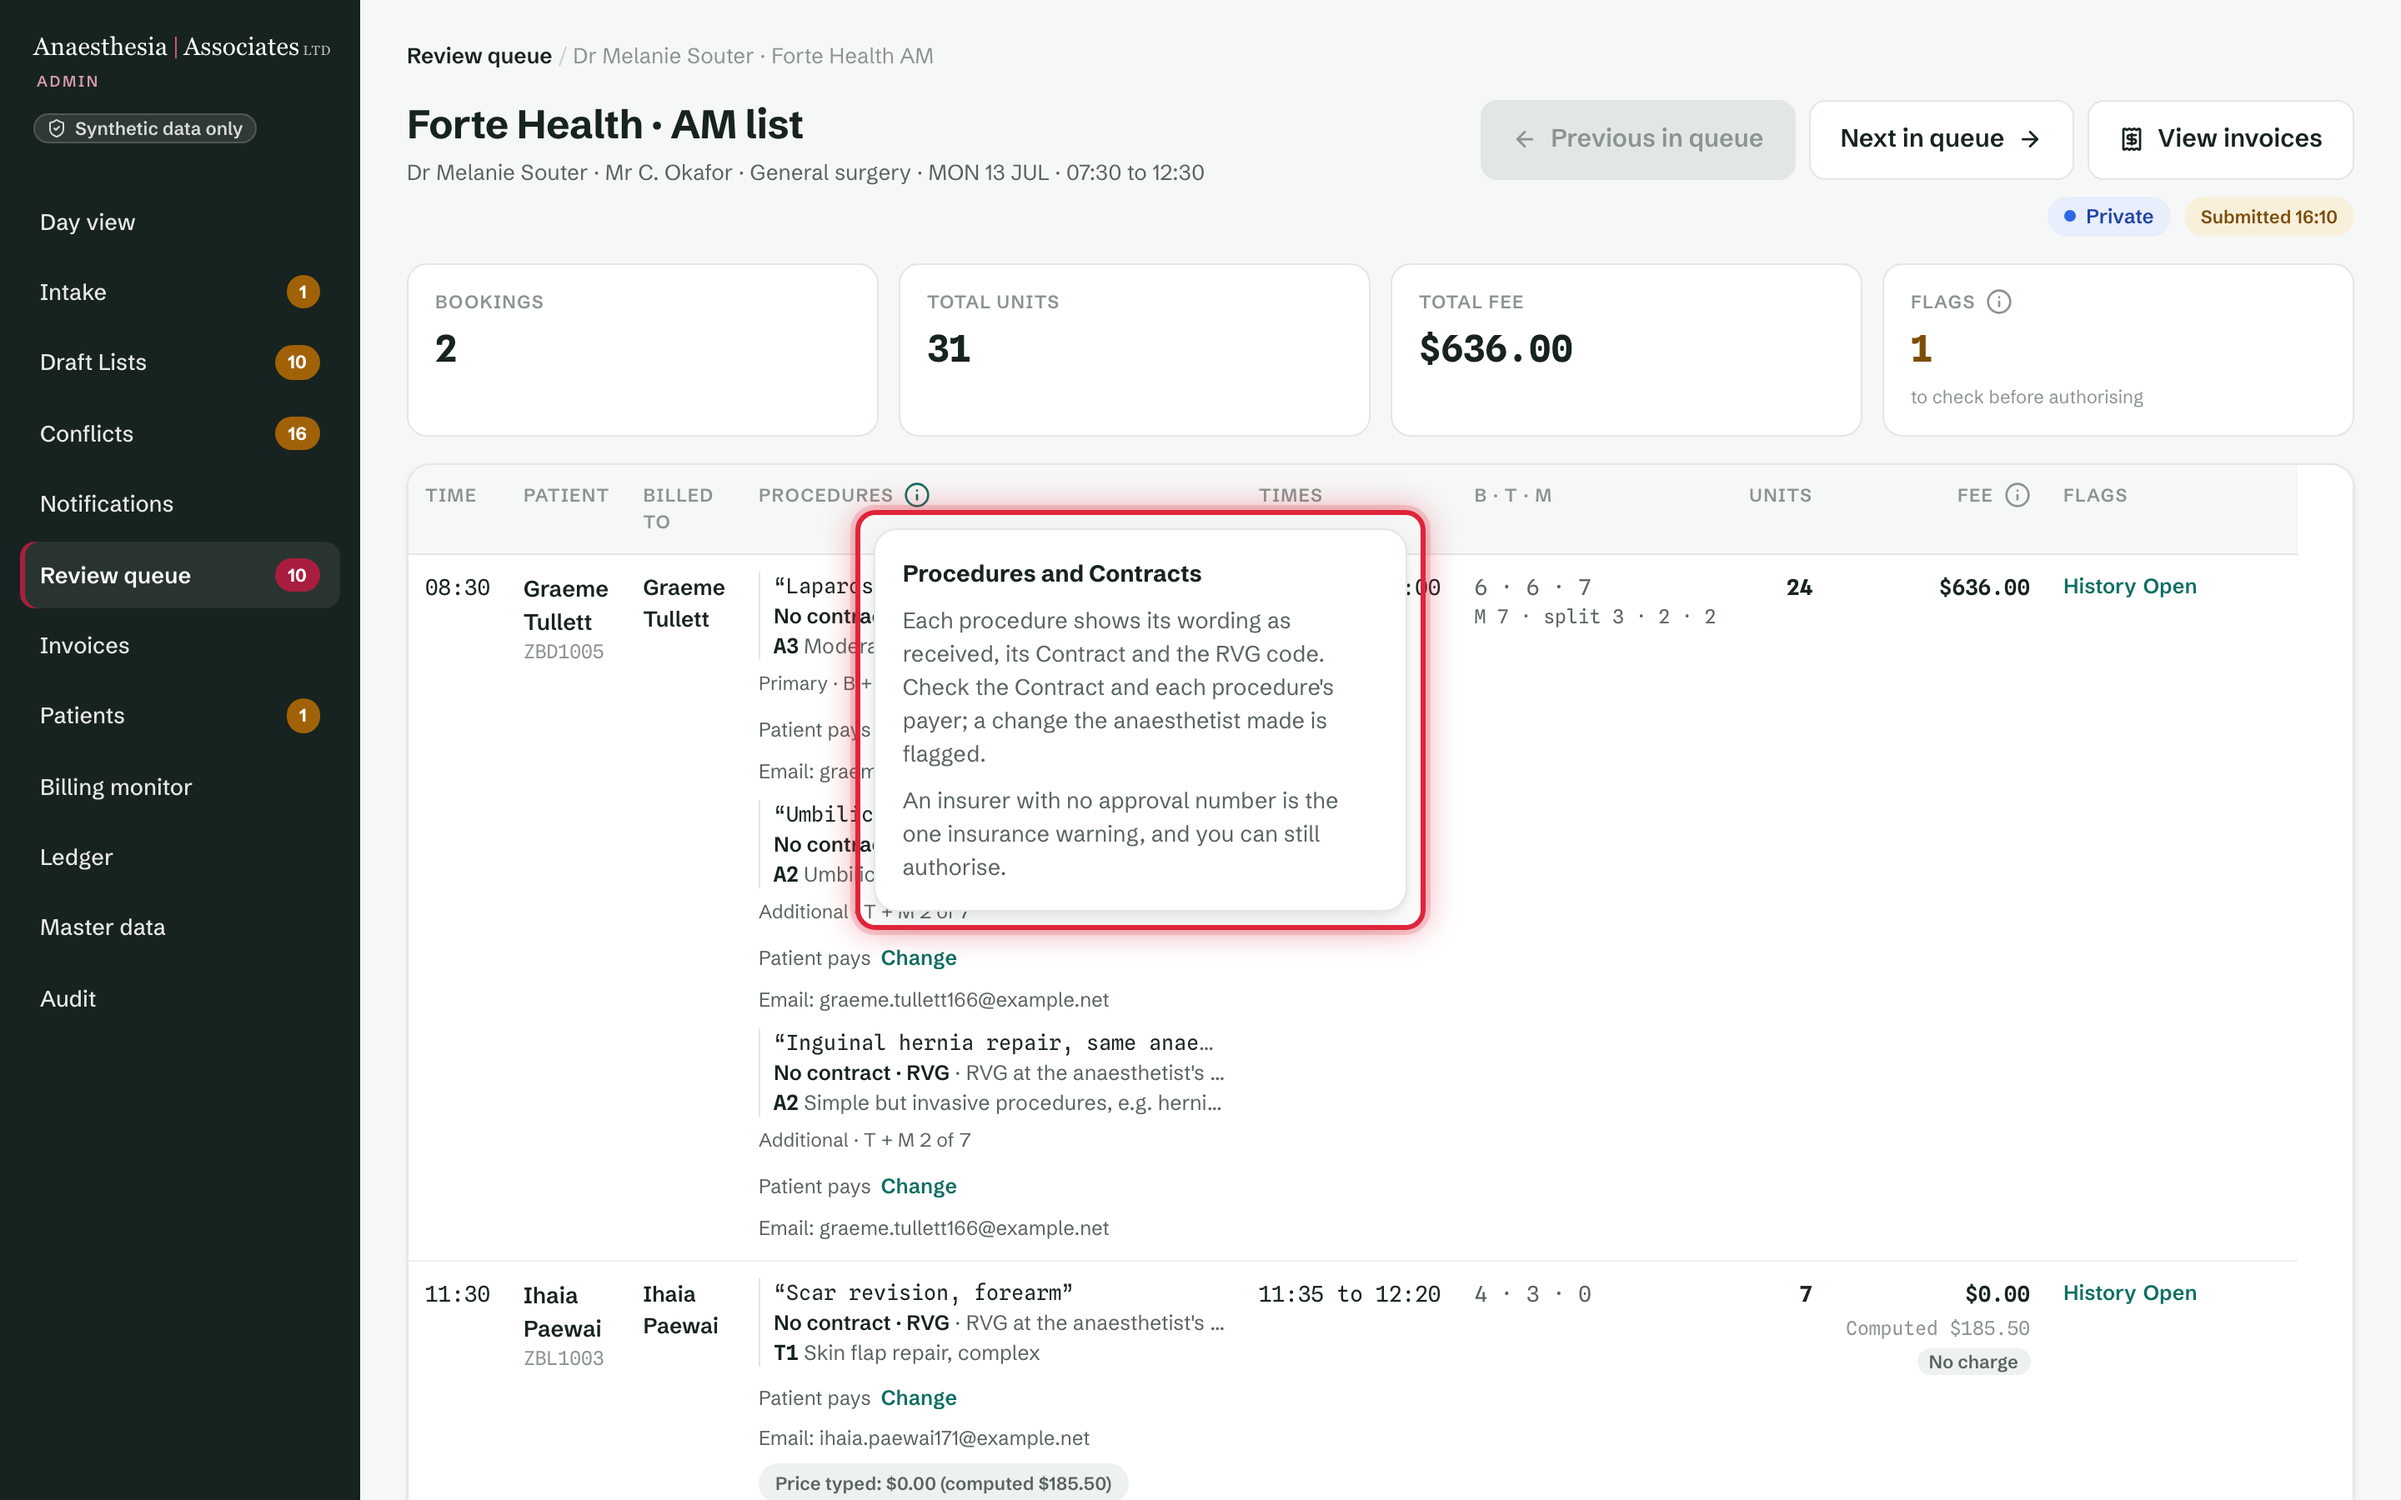
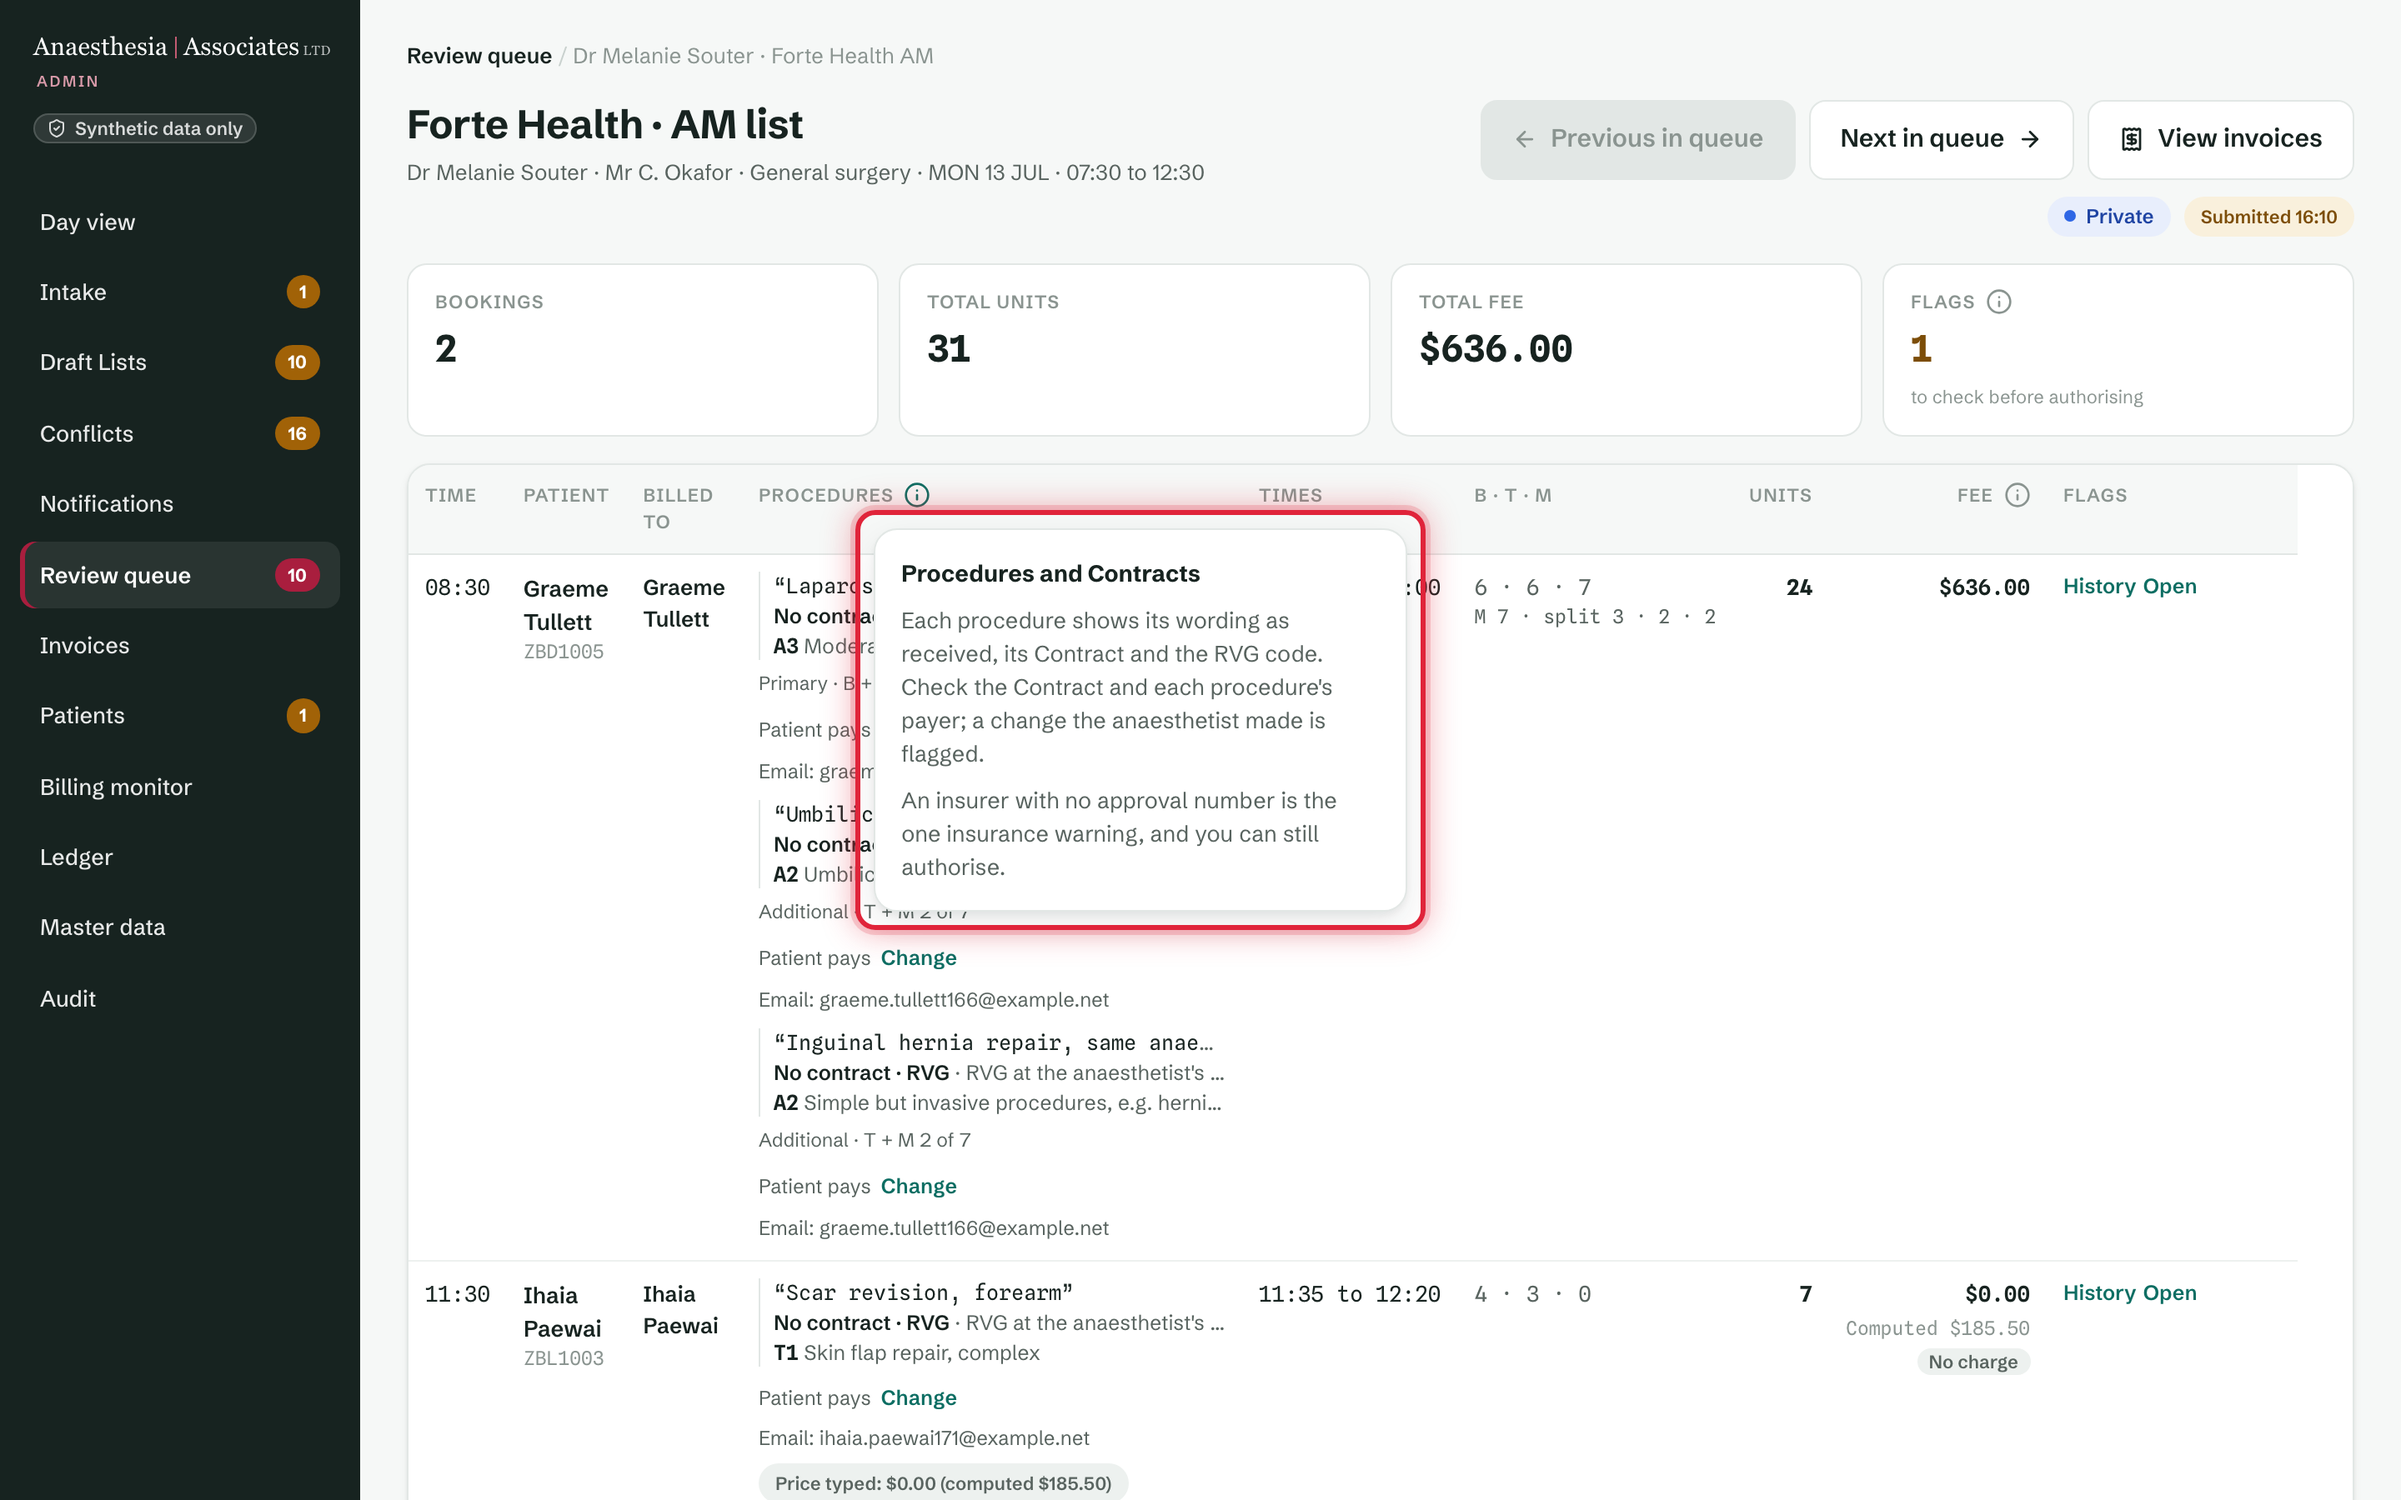
Recapture US-15.0.1 without the welcome cards

Changed region(s): [[0.375, 0.3733, 0.5625, 0.5911]]

diff --git a/requirements-board/requirements/capture/REPORT.md b/requirements-board/requirements/capture/REPORT.md
@@ -12,7 +12,7 @@ Scope: every story plus every feature with no stories (302 items, 302 stories). 
 | Failed recipe | 2 | 1 |
 | No recipe | 0 | 0 |
 
-1044 screenshots. Items per app: admin 203, web 96, mobile 96, simulator 33.
+1041 screenshots. Items per app: admin 203, web 96, mobile 96, simulator 33.
 
 ## Failed recipes (2)
 
@@ -116,7 +116,7 @@ Scope: every story plus every feature with no stories (302 items, 302 stories). 
 - **US-14.2.1** Internal booking model · Future Work: shown only on the badged Future scope: HL7 and FHIR demo, for discussion. The internal booking model behind real feeds is not in the first release.
 - **US-14.3.1** Real-time processing · Future Work: shown only on the badged Future scope: HL7 and FHIR demo, for discussion. In the first release hospital files are imported by the office (US-02.1.1).
 - **US-14.5.1** Integration failure visibility · Future Work: shown only on the badged Future scope: HL7 and FHIR demo, for discussion. There are no automatic feeds in the first release.
-- **US-15.0.1** Ease of use · Ease of use is a quality that screenshots can only suggest. The shots show the calm Booking capture screen with the procedure stack and the Price section kept, help at the point of need beside each section on the phone, the web app and the office screens, and the welcome card each app shows on a first visit. Whether people not comfortable with modern systems find it intuitive needs usability testing, which the prototype has not had. The capture shot's Booking (BK0009) holds no insurer, so its Insurance row reads None and shows no approval number.
+- **US-15.0.1** Ease of use · Ease of use is a quality that screenshots can only suggest. The shots show the calm Booking capture screen with the procedure stack and the Price section kept, help at the point of need beside each section on the phone, the web app and the office screens. Whether people not comfortable with modern systems find it intuitive needs usability testing, which the prototype has not had. The capture shot's Booking (BK0009) holds no insurer, so its Insurance row reads None and shows no approval number.
 - **US-15.0.4** Volumes · Full-scale volumes are generated in memory and timed on screen; whether performance holds at these volumes needs formal performance testing, which the prototype has not had.
 
 ## No recipe (0)
